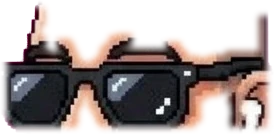
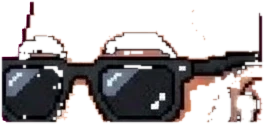
Gafas de sol: recorte ajustado para que el borde no se vea borroso
Claude-Session: https://claude.ai/code/session_01QwGSbvem29DWb2e6E1Uaf5

diff --git a/scripts/build-avatar.py b/scripts/build-avatar.py
@@ -71,7 +71,7 @@ PIECES = {
     "boca-bostezo": ((480, 345, 660, 510), True),
     "mano-boca": ((320, 250, 700, 640), True),
     # Gafas de sol (el premio de completar todos los logros): encima de los ojos, con la patilla hasta la oreja.
-    "gafas-sol": ((470, 240, 730, 360), True),
+    "gafas-sol": ((470, 240, 730, 360), True, None, None, True),
     "manos": ((420, 640, 700, 880), False),
     "vapor-2": ((100, 590, 230, 790), False),
     "vapor-3": ((100, 590, 230, 790), False),
